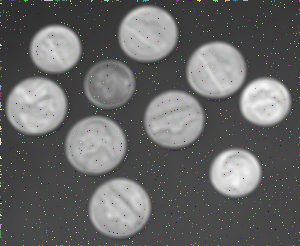
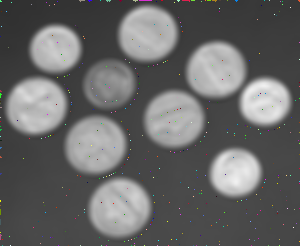
Basins working, need to lessen number

diff --git a/main.py b/main.py
@@ -15,6 +15,7 @@ import numpy as np
 import cv2
 import copy
 import random
+from timeit import default_timer as timer
 from utils import *
 
 def main(argv):
@@ -27,13 +28,11 @@ def main(argv):
         sys.exit(2)
     
     # assume a square kernel
-    kernel_size = 5
+    kernel_size = 9
     sigma = 3
-    threshold = [10, 15]
     image = 'img/test.png'
-    minima = 3
     verbose = False
-    operator = "sobel"
+    connect = 4
     
     for opt, arg in opts:
         print(opt, arg)
@@ -101,22 +100,20 @@ def main(argv):
     img = cv2.imread(image, cv2.IMREAD_GRAYSCALE)
     
     # pad image
-    pad_amount = int(img.shape[0]/4)
+    start = timer()
+    pad_amount = int(img.shape[0]/8)
     pad = pad_array(img, pad_amount)
-    if verbose:
-        pass
-        #cv2.imwrite('pad_' + str(pad_amount) + '_' + image.rsplit("/", 1)[1].rsplit(".", 1)[0] + '.png', pad)
     
     # blur image
     x = image_filter2d(pad, H)[pad_amount:pad_amount+img.shape[0], pad_amount:pad_amount+img.shape[1]]
-    if verbose:
-        pass
-        #cv2.imwrite('blurred_' + str(kernel_size) + '_' + image.rsplit("/", 1)[1].rsplit(".", 1)[0] + '.png', x)
+    end = timer()
+    print("\nTime taken for preprocessing: {0:.3f}".format(end - start))
         
     # find minima
     L = np.zeros(x.shape)+1
     change_in_label = True
     count = 0
+    start = timer()
     while change_in_label is True:
         count = count + 1
         change_in_label = False
@@ -124,22 +121,16 @@ def main(argv):
             for j in range(0, x.shape[1]):
                 if L[i,j] != 0:
                     for q in neighbors((i,j), x):
-                        if x[i,j] > x[q[0], q[1]]: 
+                        if x[i,j] > x[q]: 
                             # if p>q it cannot be minima
                             L[i,j] = 0
                             change_in_label = True
-                        if x[i,j] == x[q[0], q[1]] and L[q[0], q[1]] == 0: 
-                            #if p==q but q is not minima p cannot be either
+                        if x[i,j] == x[q] and L[q] == 0: 
+                            # if p==q but q is not minima p cannot be either
                             L[i,j] = 0
                             change_in_label = True
-        #if verbose:
-        #    print("Minima finding iteration: {}".format(count))
-        #    xtc = cv2.cvtColor(np.array(255-copy.deepcopy(np.round(x, decimals=0))*255, dtype=np.uint8), cv2.COLOR_GRAY2RGB)
-        #    for i in range(0, x.shape[0]):
-        #        for j in range(0, x.shape[1]):
-        #            if L[i,j] == 0:
-        #                xtc[i, j] = (0, 0, 255)
-        #    cv2.imwrite('out/minima_pass={}.png'.format(count), xtc)
+    end = timer()
+    print("\nTime taken to find minima: {0:.3f}".format(end - start))
     
     # save image with labeled minima
     if verbose:
@@ -152,7 +143,10 @@ def main(argv):
         cv2.imwrite('out/minima.png', xtc)
         
     # grow drain interiors
-    num_drains = grow_regions(L, unlabeled=1)
+    start = timer()
+    num_drains = grow_regions(L, unlabeled=1, connectedness=connect)
+    end = timer()
+    print("\nTime taken to grow drains: {0:.3f}".format(end - start))
     
     rand_bgr = np.random.randint(255, size=(num_drains+1, 3))
     if verbose:
@@ -164,7 +158,7 @@ def main(argv):
                     xtc[i, j] = (rand_bgr[int(L[i,j]), 0], rand_bgr[int(L[i,j]), 1], rand_bgr[int(L[i,j]), 2])
         cv2.imwrite('out/drains.png', xtc)
     
-    # fill basins
+    # prep V structure
     Vl = []
     Vv = []
     for i in range(x.shape[0]):
@@ -176,37 +170,46 @@ def main(argv):
                 
     # sort the pixel coordinate list by the brightness
     V = [e for _,e in sorted(zip(Vv,Vl))]
+    
+    # fill basins
+    start = timer()
     while V:
         p = V.pop(0)
         
         # find drain label
-        for q in neighbors(p,L,connectedness=4):
-            if L[q] > 0:
-                L[p] = L[q]
-                print(L[p])
-                break
+        for q in neighbors(p,L,connectedness=connect):
+            try:
+                if L[q] > 0:
+                    L[p] = L[q]
+                    break
+            except IndexError:
+                print("p: {}\tq: {}".format(p,q))
+            
         
         # assign upstream pixels
-        for q in neighbors(p,x,connectedness=4):
+        for q in neighbors(p,x,connectedness=connect):
             if q not in V:
                 break
             slope = x[q] - x[p]
             # check if p downstream from q
             maximal = True
-            for r in neighbors(q,x,connectedness=4):
+            for r in neighbors(q,x,connectedness=connect):
                 if r == p:
-                    pass
+                    continue
                 if x[q] - x[r] > slope:
                     maximal = False
                     break
             if maximal:
-                print(slope)
+                #print(slope)
                 if L[q] > 0:
                     # already labeled
                     L[q] = num_drains + 1
                 else:
                     L[q] = L[p]
-                    
+        #print(len(V))
+    end = timer()
+    print("\nTime taken to grow basins: {0:.3f}".format(end - start))
+        
     if verbose:
         xtc = cv2.cvtColor(np.array(copy.deepcopy(np.round(L, decimals=0)), dtype=np.uint8), cv2.COLOR_GRAY2RGB)
         for i in range(0, x.shape[0]):

diff --git a/utils.py b/utils.py
@@ -105,17 +105,17 @@ def neighbors(pixelpos, image, connectedness=8):
                             n.append((x+i,y+j))
     elif connectedness == 4:
         if x > 0:
-            n.append((-1, 0))
-        if x < X:
-            n.append((1, 0))
+            n.append((x-1, y))
+        if x < X-1:
+            n.append((x+1, y))
         if y > 0:
-            n.append((0, -1))
-        if y < Y:
-            n.append((0, 1))
+            n.append((x, y-1))
+        if y < Y-1:
+            n.append((x, y+1))
     return n
     
     
-def grow_regions(image, unlabeled=0):
+def grow_regions(image, unlabeled=0, connectedness=8):
     X,Y = image.shape
     next_label = unlabeled + 1
     change_flag = True
@@ -126,30 +126,23 @@ def grow_regions(image, unlabeled=0):
                 if image[i,j] == unlabeled:
                     # start labeling a new region
                     current_label = next_label
-                    #print(current_label)
                     next_label = next_label + 1
                     change_flag = True
                     
                     # grow that region
                     stack = [(i,j)]
-                    while len(stack) > 0:
+                    while stack:
                         p = stack.pop(-1)
-                        x = p[0]
-                        y = p[1]
-                        #print(x,y)
-                        for ii in [-1, 0, 1]:
-                            if ii+x > -1 and ii+x < X:
-                                for jj in [-1, 0, 1]:
-                                    if jj+y > -1 and jj+y < Y:
-                                        if image[ii+x, jj+y] == unlabeled:
-                                            image[ii+x, jj+y] = current_label
-                                            stack.append((ii+x, jj+y))
-                        #print(stack)
-                    continue
+                        image[p] = current_label
+                        for q in neighbors(p, image, connectedness):
+                            if image[q] == unlabeled:
+                                image[q] = current_label
+                                stack.append(q)
+                    break
             if change_flag:
-                continue
+                break
                 
-    # "normalize" such that max(image) = number of drains
+    # "normalize" such that max(image) = number of regions
     for i in range (0,X):
         for j in range(0,Y):
             if image[i,j] > 0:
